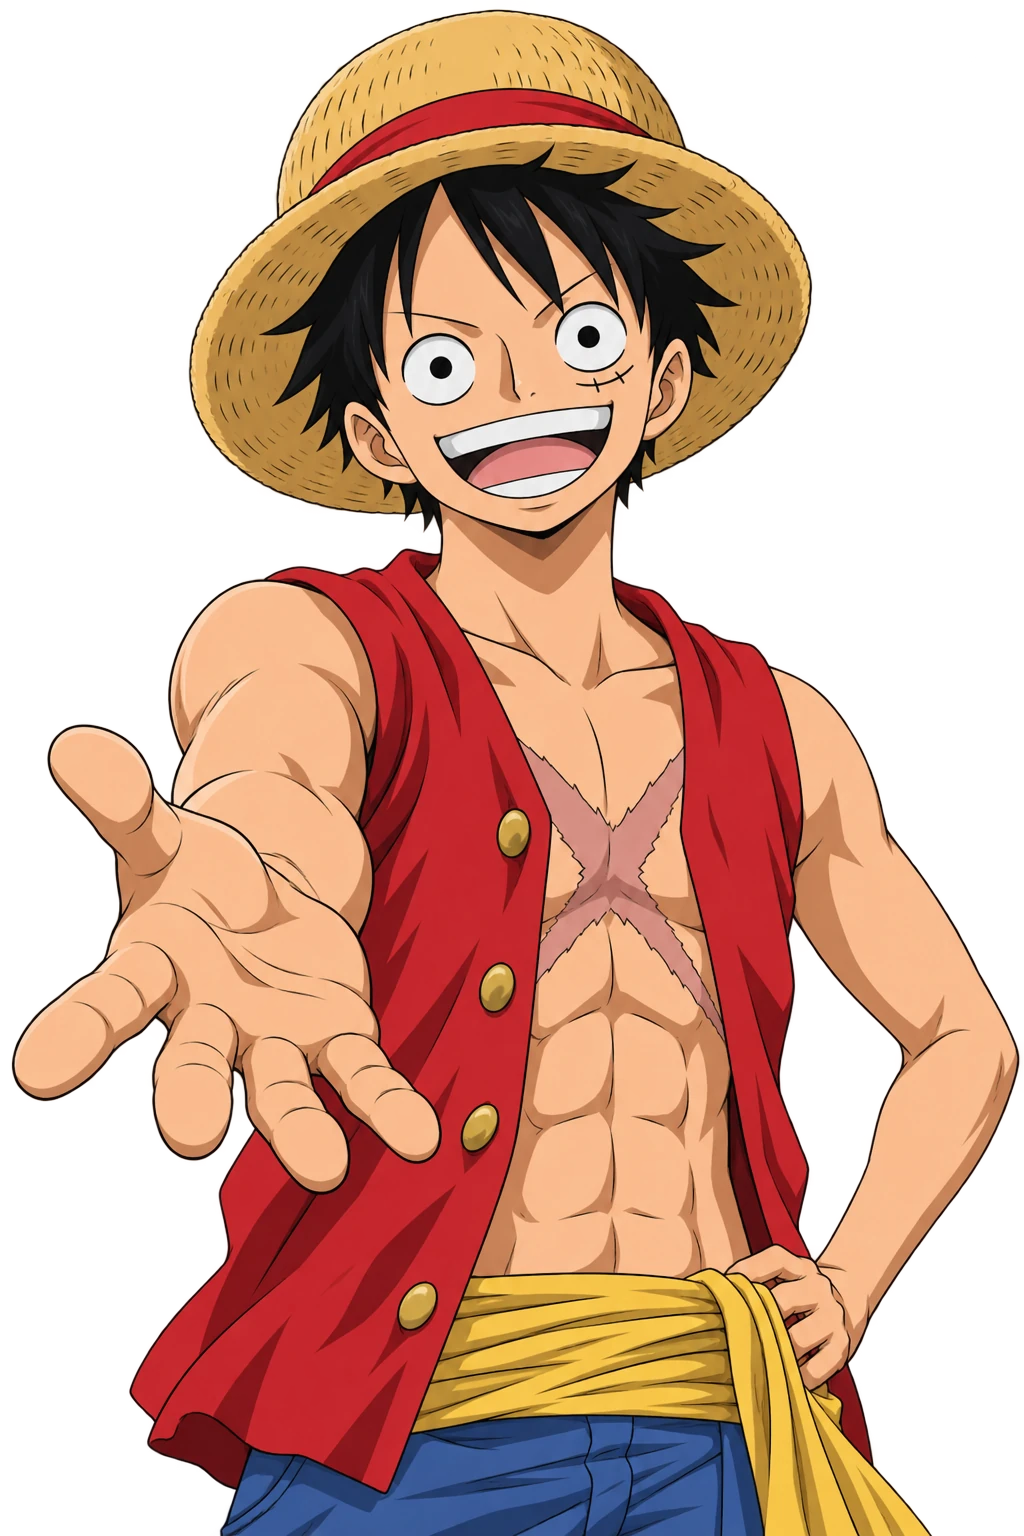
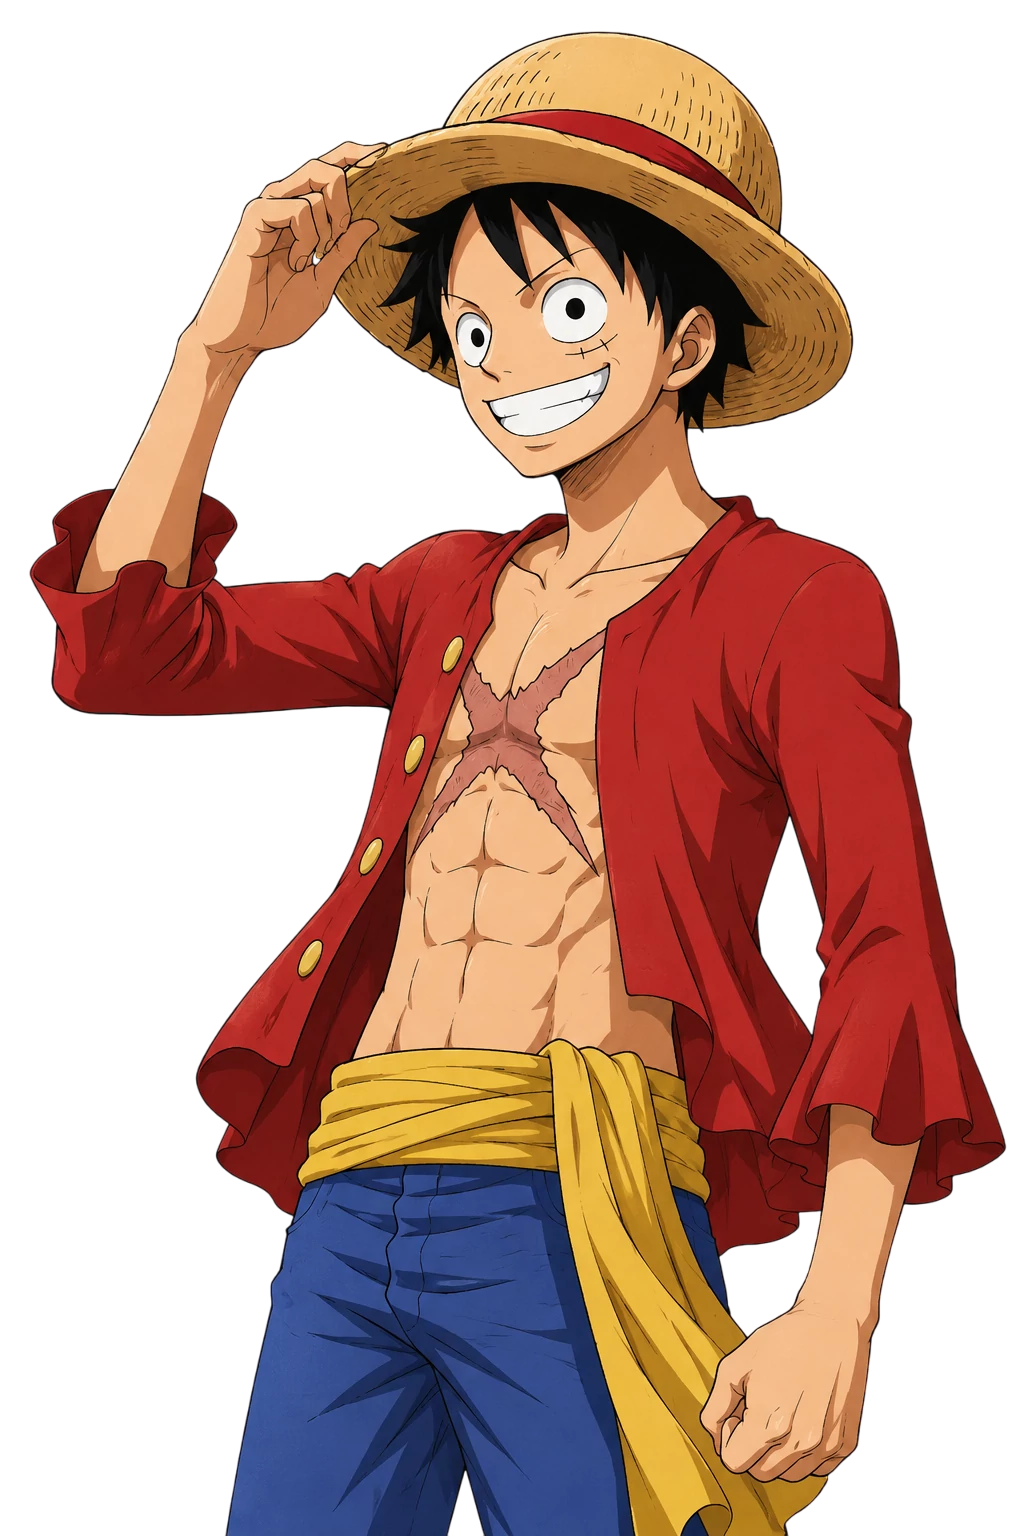
Use consistent existing Luffy artwork for tavern invitation

diff --git a/scripts/board_tavern_reveal_qa.js b/scripts/board_tavern_reveal_qa.js
@@ -168,6 +168,29 @@ async function main() {
       });
     }
 
+    if (process.env.BOARD_QA_LUFFY_ONLY === "1") {
+      for (const viewport of [{ width: 1440, height: 900 }, { width: 390, height: 844 }, { width: 932, height: 430 }]) {
+        await page.setViewportSize(viewport);
+        await prepare();
+        await result({ grade: "A" });
+        await page.waitForFunction(() => {
+          const image = document.querySelector(".tavern-reveal-luffy");
+          return image?.complete && image.naturalWidth > 0 && Number(getComputedStyle(image).opacity) > 0.98;
+        });
+        const layout = await frame();
+        report.layouts.push(layout);
+        check(`corrected Luffy art and controls load ${viewport.width}x${viewport.height}`, layout.images.every((image) => image.loaded) && layout.cover && layout.skipVisible && layout.skipTextFits && !layout.overflow);
+        const screenshot = path.join(OUTPUT_DIR, `corrected-luffy-${viewport.width}x${viewport.height}.png`);
+        await page.screenshot({ path: screenshot, timeout: 5000 });
+        console.log(`SCREENSHOT ${screenshot}`);
+        const beforeSkip = await snapshot();
+        await skip();
+        check(`corrected Luffy skip preserves result ${viewport.width}x${viewport.height}`, await page.locator("#acceptRecruitBtn").isEnabled() && JSON.stringify(await snapshot()) === JSON.stringify(beforeSkip));
+      }
+      check("corrected Luffy has no browser runtime errors", report.errors.length === 0);
+      return;
+    }
+
     if (process.env.BOARD_QA_LANDSCAPE_ONLY === "1") {
       await page.setViewportSize({ width: 932, height: 430 });
       await prepare();

diff --git a/docs/BOARD_TAVERN_REVEAL_20260928.md b/docs/BOARD_TAVERN_REVEAL_20260928.md
@@ -4,7 +4,7 @@
 
 正式來源：D:/Codex_Release_Worktrees/board-voyage-records-v1。發布整合基準為線上 main 92a11b3c5c1c8e21eea5ab84917dd5c8c5e8d441，於 managed tavern-recruit-animation 工作樹驗證。
 
-只有酒館實際抽選傳入 tavernReveal UI 標記。原结果先建立，再由只讀呈現模組播放約 6.9 秒：魯夫台詞「你願不願意加入我們？」、階級光、開門剪影、角色揭曉。剪影直接使用原結果的角色圖，不另抽選、不改人物 id。三張 GPT 原畫的來源及完整 prompts 見 BOARD_TAVERN_CINEMATIC_ART_20260928.json。
+只有酒館實際抽選傳入 tavernReveal UI 標記。原结果先建立，再由只讀呈現模組播放約 6.9 秒：魯夫台詞「你願不願意加入我們？」、階級光、開門剪影、角色揭曉。剪影直接使用原結果的角色圖，不另抽選、不改人物 id。兩張新 GPT 酒館／木門原畫與沿用的既有魯夫立繪來源、提示詞及被否決初稿記錄見 BOARD_TAVERN_CINEMATIC_ART_20260928.json。
 
 沿用配色：S #ffe27a、A #dca4ff、B #9fc4ff、C #9fdaa9、D #cad2db、E #d7b786。演出暫停原決策輸入，按鈕原 disabled 狀態於結束／跳過／關閉還原。Escape 可跳過；reduced-motion 直接顯示原結果；3 秒素材逾時或載入失敗會恢复操作。既有 BoardAudio draw/reward 音效遵守原音量／靜音設定。沒有新增合成魯夫語音。
 
@@ -24,6 +24,8 @@
 
 證據：D:/Codex_QA/board-tavern-reveal-20260928/result.json、sync/result.json 與同目錄截圖；選取的原始 JSON 另保存為本文件旁的 BOARD_TAVERN_REVEAL_BROWSER_QA_20260928.json、BOARD_TAVERN_REVEAL_SYNC_QA_20260928.json。本次為自動化、隔離本機驗證，非真人、實體手機或跨網路多人驗收。
 
-發布進行中，尚待 R2 bytes/SHA/CORS 及公開 runtime identity 驗證。
+橫向最後补驗 `BOARD_QA_LANDSCAPE_ONLY=1` 6/6 通過，0 錯誤。932x430 角色透明輪廓 top 59.88 / bottom 325.28，字幕 top 333.81，間距 8.54px；邀請角色頭部完整、剪影與揭曉無裁頭。證據位於 landscape-final/result.json 與三張截圖。
+
+初版候選 package-acd57a19b6352ba6 已在外部 candidate 目錄建置，未 promote、未 R2 上傳、未推送。使用者確認「服裝跟傷疤是不同時期」，修正為逐位元複製遊戲既有 `images/board/story/speakers/luffy_smile.webp` 作邀請立繪，長袖紅上衣、胸前 X 傷疤與黃色腰帶保持既有同套造型，原始素材及被否決生圖稿保留。修正版 SHA256 e4c681eb835f5421d046c895fa2bad0c8919de658c6355a826e01f60e4618d6e。修正版圖片補驗 7/7 通過、0 錯誤：三種 viewport 的既有魯夫圖載入、跳過與原結果未決狀態；截圖目視確認頭部、邀請台詞與角色分開。證據 corrected-luffy/result.json；同步保存 BOARD_TAVERN_REVEAL_LUFFY_QA_20260928.json。原候選不得發布，修正後另建候選再驗 R2 與公開 runtime。
 
 LATTICE runtime/task API 不在本階段工具清單，官方 Status 回傳 BLOCKED / CUSTOMER_DEPENDENCY_FILE_SET_CHANGED。未登記新 task、未修改資料庫、未宣稱圖譜成功。舊正式工作樹的未提交修改完整保留。

diff --git a/docs/FILE_MAP.md b/docs/FILE_MAP.md
@@ -4,7 +4,7 @@
 
 - `public/js/board_tavern_reveal.js`：監看明確標記的酒館結果、四階段演出、階級色、原結果按鈕與焦點恢復、跳過／取消／素材失敗處理。
 - `public/css/board_tavern_reveal.css`：點陣背景／門片／角色圖合成、門片轉動、剪影揭曉及桌機／手機版面。
-- `public/images/board/tavern_recruit/cinematic_v1/`：GPT 酒館門洞、透明雙門與魯夫邀請圖片。
+- `public/images/board/tavern_recruit/cinematic_v1/`：新 GPT 酒館門洞、透明雙門與沿用既有造型的魯夫邀請立繪。
 - `public/js/board_game.js`、`public/board_game.html`：原招募結果的最小 UI 標记及載入；原規則／結果 handlers 不變。
 - `scripts/board_tavern_reveal_qa.js`、`scripts/build_board_tavern_reveal_release.js`：瀏覽器驗證與保留既有媒體的限定發布建置。
 - `scripts/board_tavern_reveal_sync_qa.js`：兩個瀏覽器 context 的本機實際 Socket.IO 酒館抽選／觀看／收下／重整驗證；使用隔離測試初始狀態。
